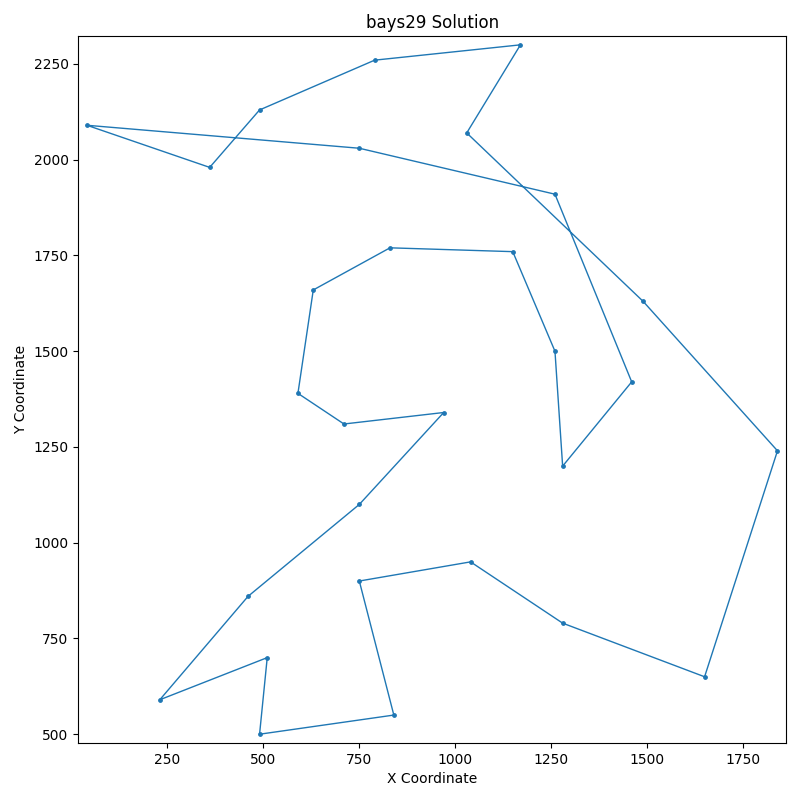
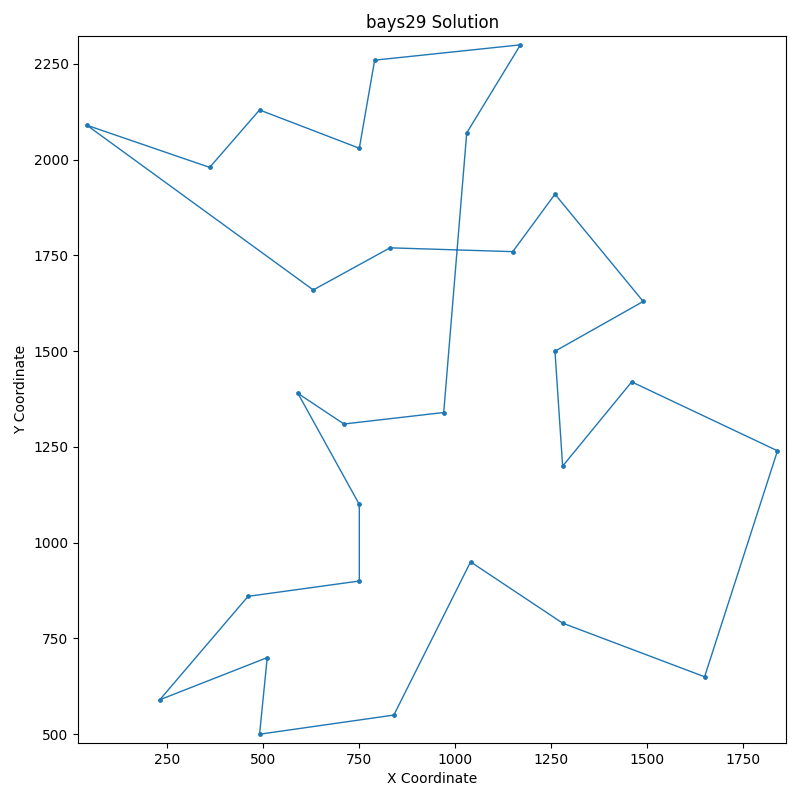
experiment 2: 12, 2103, 10191, 911, 2046

diff --git a/src/driver.py b/src/driver.py
@@ -43,12 +43,12 @@ def main():
     run_genetic_experiment(             # Default values
         problem_name,                   
         travel_graph_class=TravelGraphClassic,
-        population_size=500,            # 500
-        generations=500,                # 500
+        population_size=1000,            # 500
+        generations=1000,                # 500
         elitism_factor=0.15,            # 0.15
-        diversity_factor=0.15,          # 0.15
+        diversity_factor=0.3,          # 0.15
         linear_selection_factor=0.5,    # 0.5
-        crossover_factor=10/131,        # 10/131
+        crossover_factor=0.1,        # 10/131
         p_mutation=0.01,                # 0.01
         mutate_elite=True,              # True
         patience=50,                    # 50
